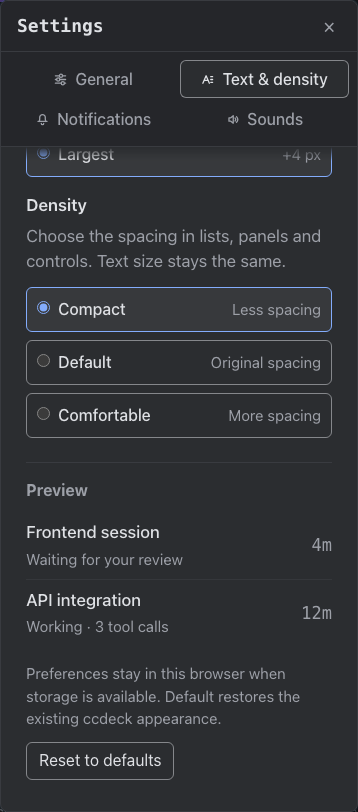
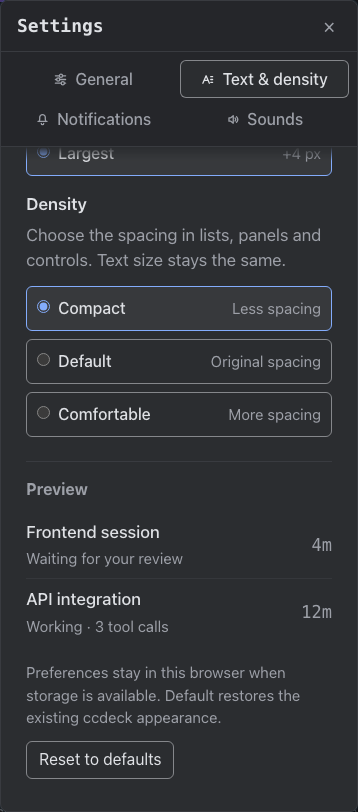
feat: add two smaller interface text sizes
Add Smallest and Smaller choices with first-paint restoration and browser persistence. Extend the text range below the unchanged default while preserving keyboard selection and responsive controls.

diff --git a/src/web/reading-preferences.ts b/src/web/reading-preferences.ts
@@ -2,13 +2,13 @@ import { readStored } from "./storage";
 
 export const TEXT_SIZE_KEY = "agent-dag.text-size";
 export const DENSITY_KEY = "agent-dag.density";
-export const TEXT_SIZES = ["default", "larger", "largest"] as const;
+export const TEXT_SIZES = ["smallest", "smaller", "default", "larger", "largest"] as const;
 export const DENSITIES = ["compact", "default", "comfortable"] as const;
 export type TextSize = (typeof TEXT_SIZES)[number];
 export type Density = (typeof DENSITIES)[number];
 
 export function resolveTextSize(value: string | null | undefined): TextSize {
-  return value === "larger" || value === "largest" ? value : "default";
+  return value === "smallest" || value === "smaller" || value === "larger" || value === "largest" ? value : "default";
 }
 export function resolveDensity(value: string | null | undefined): Density {
   return value === "compact" || value === "comfortable" ? value : "default";

diff --git a/src/web/__tests__/reading-preferences.test.ts b/src/web/__tests__/reading-preferences.test.ts
@@ -46,7 +46,7 @@ describe("reading preferences before first paint", () => {
       });
     },
   );
-  it.each(["default", "larger", "largest"])(
+  it.each(["smallest", "smaller", "default", "larger", "largest"])(
     "restores %s text consistently with React",
     (value) => {
       expect(boot(value, "compact")["data-text-size"]).toBe(
@@ -78,7 +78,7 @@ describe("reading preferences before first paint", () => {
           onDensity() {},
         }),
       );
-    expect(draw("default").match(/name="text-size"/g)).toHaveLength(3);
+    expect(draw("default").match(/name="text-size"/g)).toHaveLength(5);
     expect(draw("default").match(/name="density"/g)).toHaveLength(3);
     expect(draw("default")).toMatch(/disabled="">Reset to defaults/);
     expect(draw("largest")).not.toMatch(/disabled="">Reset to defaults/);

diff --git a/src/web/components/ReadingSection.tsx b/src/web/components/ReadingSection.tsx
@@ -23,11 +23,13 @@ export default function ReadingSection({
       <fieldset className="reading-group">
         <legend>Text size</legend>
         <p id="reading-size-help">
-          Enlarge interface text without changing your browser zoom.
+          Adjust interface text without changing your browser zoom.
         </p>
         <div className="reading-options" aria-describedby="reading-size-help">
           {(
             [
+              ["smallest", "Smallest", "−2 px"],
+              ["smaller", "Smaller", "−1 px"],
               ["default", "Default", "Original size"],
               ["larger", "Larger", "+2 px"],
               ["largest", "Largest", "+4 px"],

diff --git a/src/web/index.html b/src/web/index.html
@@ -73,7 +73,7 @@
           size = window.localStorage.getItem("agent-dag.text-size");
           density = window.localStorage.getItem("agent-dag.density");
         } catch (e) {}
-        document.documentElement.setAttribute("data-text-size", size === "larger" || size === "largest" ? size : "default");
+        document.documentElement.setAttribute("data-text-size", size === "smallest" || size === "smaller" || size === "larger" || size === "largest" ? size : "default");
         document.documentElement.setAttribute("data-density", density === "compact" || density === "comfortable" ? density : "default");
       })();
     </script>

diff --git a/src/web/styles/reading.css b/src/web/styles/reading.css
@@ -1,5 +1,7 @@
 /* Default supplies zero increments: the established type scale and spacing
    remain byte-for-byte equivalent in computed styles, without page zoom. */
+:root[data-text-size="smallest"] { --ui-text-increase: -2px; }
+:root[data-text-size="smaller"] { --ui-text-increase: -1px; }
 :root[data-text-size="larger"] { --ui-text-increase: 2px; }
 :root[data-text-size="largest"] { --ui-text-increase: 4px; }
 /* Zoomed-out faces have fixed, screen-space line budgets and container-query

diff --git a/.impeccable/surfaces/text-size-density.md b/.impeccable/surfaces/text-size-density.md
@@ -15,8 +15,8 @@ identity. Preserve system typography, monospaced values, theme and semantic
 colors, control edges, radii and focus tokens. No new visual identity, gradients,
 brand artwork or dependencies. Default keeps the established type and spacing.
 
-Task: choose independently between Default, Larger (+2 px) and Largest (+4 px)
-text, and Compact, Default and Comfortable density. Native radios in labeled
+Task: choose independently between Smallest (−2 px), Smaller (−1 px), Default, Larger (+2 px)
+and Largest (+4 px) text, and Compact, Default and Comfortable density. Native radios in labeled
 fieldsets retain platform keyboard behavior. Changes apply immediately; the
 two illustrative session rows preview text and spacing. Reset to defaults
 restores both choices and is disabled when both are already Default.
@@ -57,3 +57,9 @@ not a full-repository or cross-platform accessibility certification. SVG/canvas
 chart typography remains under each chart's existing renderer; no cloud or
 cross-origin preference migration is implemented. No new detector was run after
 the single clean initial detector pass.
+
+Owner follow-up (2026-10-14): added both smaller choices. Five text choices retain
+the three-column desktop grid and single-column mobile layout; Default is unchanged.
+The follow-up passed 16 preference tests, browser interaction/reload checks,
+typecheck and production build. Earlier independent review covered the original
+three-choice version, not this additional pair.

diff --git a/.impeccable/review/text-density/verification.md b/.impeccable/review/text-density/verification.md
@@ -46,3 +46,13 @@ targets CSS interface typography. Offline/cloud sync and cross-origin desktop
 preference migration are separate work. The settings preview uses illustrative
 session rows; runtime browser checks use the actual application and isolated
 synthetic session events, without executing agents or altering provider accounts.
+
+## Follow-up: two smaller text choices
+
+Owner requested Smallest (−2 px) and Smaller (−1 px). Added both to the native
+radio group, stored-value parser and pre-paint bootstrap; Default stays unchanged.
+`npm run test -- src/web/__tests__/reading-preferences.test.ts`: 16 passed.
+Browser runner passed again, including 11px/12px computed body text and reload
+of Smaller; desktop/narrow captures inspected. Typecheck passed and build passed
+(9.45 seconds). The earlier independent review applies to the original feature;
+this bounded follow-up used rendered verification without another review cycle.
